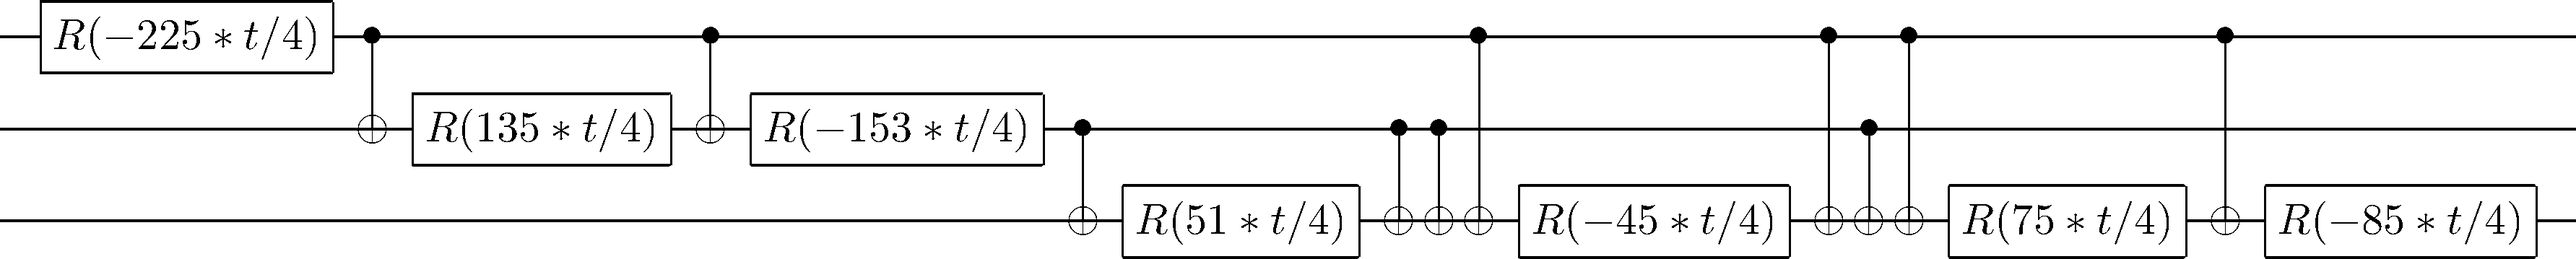
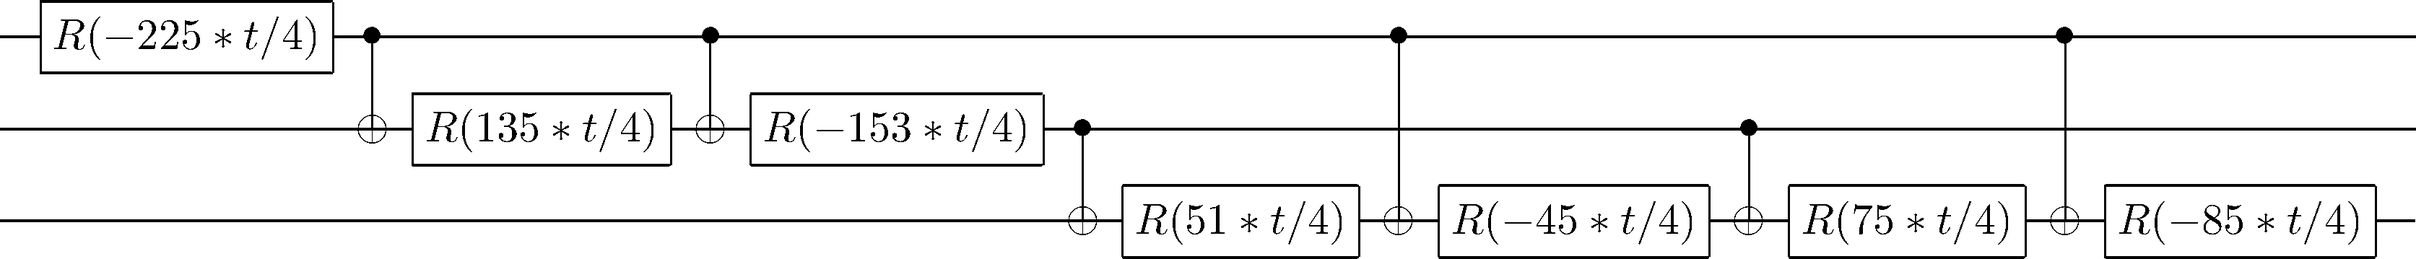
optimise CNOTS

diff --git a/samples/example1.tex b/samples/example1.tex
@@ -1,71 +1,60 @@
-% 		def	KRGGO,0,'R(-85*t/4)'
-% 		def	PTWPX,0,'R(75*t/4)'
-% 		def	FDETL,0,'R(-45*t/4)'
-% 		def	TJLJR,0,'R(51*t/4)'
-% 		def	GVBDS,0,'R(-153*t/4)'
-% 		def	UHZWC,0,'R(135*t/4)'
-% 		def	GOFKV,0,'R(-225*t/4)'
-% 		qubit q0
-% 		qubit q1
-% 		qubit q2
-% 		GOFKV	q0
-% 		cnot q0,q1
-% 		UHZWC	q1
-% 		cnot q0,q1
-% 		GVBDS	q1
-% 		cnot q1,q2
-% 		TJLJR	q2
-% 		cnot q1,q2
-% 		cnot q1,q2
-% 		cnot q0,q2
-% 		FDETL	q2
-% 		cnot q0,q2
-% 		cnot q1,q2
-% 		cnot q0,q2
-% 		PTWPX	q2
-% 		cnot q0,q2
-% 		KRGGO	q2
+% AUTOGENERATED
+% 		def	QCEDO-0,0,'R(-225*t/4)'
+% 		def	QCEDO-1,0,'R(135*t/4)'
+% 		def	QCEDO-2,0,'R(-153*t/4)'
+% 		def	QCEDO-3,0,'R(51*t/4)'
+% 		def	QCEDO-4,0,'R(-45*t/4)'
+% 		def	QCEDO-5,0,'R(75*t/4)'
+% 		def	QCEDO-6,0,'R(-85*t/4)'
+% 		qubit	q0
+% 		qubit	q1
+% 		qubit	q2
+% 		QCEDO-0	q0
+% 		cnot	q0,q1
+% 		QCEDO-1	q1
+% 		cnot	q0,q1
+% 		QCEDO-2	q1
+% 		cnot	q1,q2
+% 		QCEDO-3	q2
+% 		cnot	q0,q2
+% 		QCEDO-4	q2
+% 		cnot	q1,q2
+% 		QCEDO-5	q2
+% 		cnot	q0,q2
+% 		QCEDO-6	q2
 
 %  Time 01:
-%    Gate 00 GOFKV(q0)
+%    Gate 00 QCEDO-0(q0)
 %  Time 02:
 %    Gate 01 cnot(q0,q1)
 %  Time 03:
-%    Gate 02 UHZWC(q1)
+%    Gate 02 QCEDO-1(q1)
 %  Time 04:
 %    Gate 03 cnot(q0,q1)
 %  Time 05:
-%    Gate 04 GVBDS(q1)
+%    Gate 04 QCEDO-2(q1)
 %  Time 06:
 %    Gate 05 cnot(q1,q2)
 %  Time 07:
-%    Gate 06 TJLJR(q2)
+%    Gate 06 QCEDO-3(q2)
 %  Time 08:
-%    Gate 07 cnot(q1,q2)
+%    Gate 07 cnot(q0,q2)
 %  Time 09:
-%    Gate 08 cnot(q1,q2)
+%    Gate 08 QCEDO-4(q2)
 %  Time 10:
-%    Gate 09 cnot(q0,q2)
+%    Gate 09 cnot(q1,q2)
 %  Time 11:
-%    Gate 10 FDETL(q2)
+%    Gate 10 QCEDO-5(q2)
 %  Time 12:
 %    Gate 11 cnot(q0,q2)
 %  Time 13:
-%    Gate 12 cnot(q1,q2)
-%  Time 14:
-%    Gate 13 cnot(q0,q2)
-%  Time 15:
-%    Gate 14 PTWPX(q2)
-%  Time 16:
-%    Gate 15 cnot(q0,q2)
-%  Time 17:
-%    Gate 16 KRGGO(q2)
+%    Gate 12 QCEDO-6(q2)
 
 % Qubit circuit matrix:
 %
-% q0: gAxA, gBxA, n, gDxA, n, n, n, n, n, gJxA, n, gLxA, n, gNxA, n, gPxA, n, n
-% q1: n, gBxB, gCxB, gDxB, gExB, gFxB, n, gHxB, gIxB, n, n, n, gMxB, n, n, n, n, n
-% q2: n, n, n, n, n, gFxC, gGxC, gHxC, gIxC, gJxC, gKxC, gLxC, gMxC, gNxC, gOxC, gPxC, gQxC, n
+% q0: gAxA, gBxA, n, gDxA, n, n, n, gHxA, n, n, n, gLxA, n, n
+% q1: n, gBxB, gCxB, gDxB, gExB, gFxB, n, n, n, gJxB, n, n, n, n
+% q2: n, n, n, n, n, gFxC, gGxC, gHxC, gIxC, gJxC, gKxC, gLxC, gMxC, n
 
 \documentclass[11pt]{article}
 \input{xyqcirc.tex}
@@ -82,23 +71,15 @@
 \def\gFxB{\b\w\A{gFxB}}
 \def\gFxC{\o\w\A{gFxC}}
 \def\gGxC{\op{R(51*t/4)}\w\A{gGxC}}
-\def\gHxB{\b\w\A{gHxB}}
+\def\gHxA{\b\w\A{gHxA}}
 \def\gHxC{\o\w\A{gHxC}}
-\def\gIxB{\b\w\A{gIxB}}
-\def\gIxC{\o\w\A{gIxC}}
-\def\gJxA{\b\w\A{gJxA}}
+\def\gIxC{\op{R(-45*t/4)}\w\A{gIxC}}
+\def\gJxB{\b\w\A{gJxB}}
 \def\gJxC{\o\w\A{gJxC}}
-\def\gKxC{\op{R(-45*t/4)}\w\A{gKxC}}
+\def\gKxC{\op{R(75*t/4)}\w\A{gKxC}}
 \def\gLxA{\b\w\A{gLxA}}
 \def\gLxC{\o\w\A{gLxC}}
-\def\gMxB{\b\w\A{gMxB}}
-\def\gMxC{\o\w\A{gMxC}}
-\def\gNxA{\b\w\A{gNxA}}
-\def\gNxC{\o\w\A{gNxC}}
-\def\gOxC{\op{R(75*t/4)}\w\A{gOxC}}
-\def\gPxA{\b\w\A{gPxA}}
-\def\gPxC{\o\w\A{gPxC}}
-\def\gQxC{\op{R(-85*t/4)}\w\A{gQxC}}
+\def\gMxC{\op{R(-85*t/4)}\w\A{gMxC}}
 
 % definitions for bit labels and initial states
 
@@ -112,22 +93,18 @@
 % The quantum circuit as an xymatrix
 
 \xymatrix@R=5pt@C=10pt{
-    \bA & \gAxA &\gBxA &\n &\gDxA &\n &\n &\n &\n &\n &\gJxA &\n &\gLxA &\n &\gNxA &\n &\gPxA &\n &\n & \fA
-\\  \bB & \n &\gBxB &\gCxB &\gDxB &\gExB &\gFxB &\n &\gHxB &\gIxB &\n &\n &\n &\gMxB &\n &\n &\n &\n &\n & \fB
-\\  \bC & \n &\n &\n &\n &\n &\gFxC &\gGxC &\gHxC &\gIxC &\gJxC &\gKxC &\gLxC &\gMxC &\gNxC &\gOxC &\gPxC &\gQxC &\n & \fC
+    \bA & \gAxA &\gBxA &\n &\gDxA &\n &\n &\n &\gHxA &\n &\n &\n &\gLxA &\n &\n & \fA
+\\  \bB & \n &\gBxB &\gCxB &\gDxB &\gExB &\gFxB &\n &\n &\n &\gJxB &\n &\n &\n &\n & \fB
+\\  \bC & \n &\n &\n &\n &\n &\gFxC &\gGxC &\gHxC &\gIxC &\gJxC &\gKxC &\gLxC &\gMxC &\n & \fC
 %
 % vertical lines and other post-xymatrix latex
 %
 \nv{gBxB}{gBxA}
 \nv{gDxB}{gDxA}
 \nv{gFxC}{gFxB}
-\nv{gHxC}{gHxB}
-\nv{gIxC}{gIxB}
-\nv{gJxC}{gJxA}
+\nv{gHxC}{gHxA}
+\nv{gJxC}{gJxB}
 \nv{gLxC}{gLxA}
-\nv{gMxC}{gMxB}
-\nv{gNxC}{gNxA}
-\nv{gPxC}{gPxA}
 }
 
 \end{document}

diff --git a/qcedo.py b/qcedo.py
@@ -1,6 +1,7 @@
 import sympy as sp
 import string
 import random
+import itertools
 
 # dynamic programming memoization tool for computing discrete walsh functions
 def memoize(f):
@@ -42,36 +43,61 @@ def msb(x):
         i += 1
     return i
 
+def simplify_cnots(cnots):
+    changed = True
+    while changed:
+        cnots = [k for k, g in itertools.groupby(cnots) if len(list(g))<2]
+        changed = False
+        for i in range(len(cnots) - 1, 0, -1):
+            if cnots[i][1] == cnots[i - 1][1] and cnots[i][2] < cnots[i-1][2]:
+                cnots[i], cnots[i-1] = cnots[i-1], cnots[i]
+                changed = True
+            if cnots[i][2] == cnots[i-1][2] and cnots[i][1] < cnots[i-1][1]:
+                cnots[i], cnots[i-1] = cnots[i-1], cnots[i]
+                changed = True
+    return cnots
+
+def break_list(seq, cond):
+    group = []
+    for num in seq:
+        if cond(num):
+            if group:
+                yield simplify_cnots(group)
+                group = []
+            yield [num]
+        else:
+            group.append(num)
+
 def generate_gates(n, fn):
     N = 2**n
     ops = []
-    for i in range(n):
-        ops.append('qubit q%d' % (i))
     for i in range(1, N):
         j = gray(i)
         z_rot = -2 * wc(fn, j, N)
-        if z_rot != 0:
-            q = msb(j)
-            l = []
-            for k in range(0, q):
-                if (j >> k) & 1 == 1:
-                    l.append(k)
-            for k in reversed(l):
-                ops.append('cnot q%d,q%d' % (k, q))
-            ops.append('rz(%s) q%d' % (z_rot, q))
-            for k in l:
-                ops.append('cnot q%d,q%d' % (k, q))
-    new_ops = []
-    for op in ops:
-        if op.startswith('rz'):
-            last_part = op.split(') ')[-1]
-            op_name = ''.join(random.choice(string.ascii_uppercase) for x in range(5))
-            new_ops = ["def\t%s,0,'%s)'" % (op_name, ''.join(op.split(') ')[:-1]).replace('rz', 'R'))] + new_ops
-            new_ops.append(op_name + '\t' + last_part)
-        else:
-            new_ops.append(op)
-    for op in new_ops:
-        print('\t\t'+ op)
+        if z_rot == 0:
+            continue
+        q = msb(j)
+        l = []
+        for k in reversed(range(0, q)):
+            if (j >> k) & 1 == 1:
+                l.append(('CNOT', k, q))
+        ops += l
+        ops.append(('R', z_rot, q))
+        ops += reversed(l)
+    return list(itertools.chain.from_iterable(break_list(ops, lambda x: x[0] == 'R')))
+
+def print_qasm(n, gates):
+    qubits = ['qubit\tq%d' % (i) for i in range(n)]
+    defs = []
+    ops = []
+    for gate in gates:
+        if gate[0] == 'CNOT':
+            ops.append('cnot\tq%d,q%d' % (gate[1], gate[2]))
+        elif gate[0] == 'R':
+            def_name = 'QCEDO-%d' % (len(defs))
+            defs.append('def\t%s,0,\'R(%s)\'' % (def_name, gate[1]))
+            ops.append('%s\tq%d' % (def_name, gate[2]))
+    print('\n\t\t'.join(['# AUTOGENERATED'] + defs + qubits + ops))
 
 if __name__ == '__main__':
-    generate_gates(3, f)
+    print_qasm(3, generate_gates(3, f))

diff --git a/README.md b/README.md
@@ -10,8 +10,6 @@ For example, here is a circuit for ![](https://latex.codecogs.com/gif.latex?e%5E
 
 Supply a function that maps *i → H<sub>i,i</sub>* and the program will output QASM code for the circuit implementing *e<sup>i H</sup>*.
 
-Note this is a work in progress -- the CNOT gates still need to be optimised. Once complete, there will be at most one CNOT between any two given phase gates.
-
 <br>
 
 [1] J. L. Shanks, 1969, IEEE Transactions on Computers 18-5, 457
